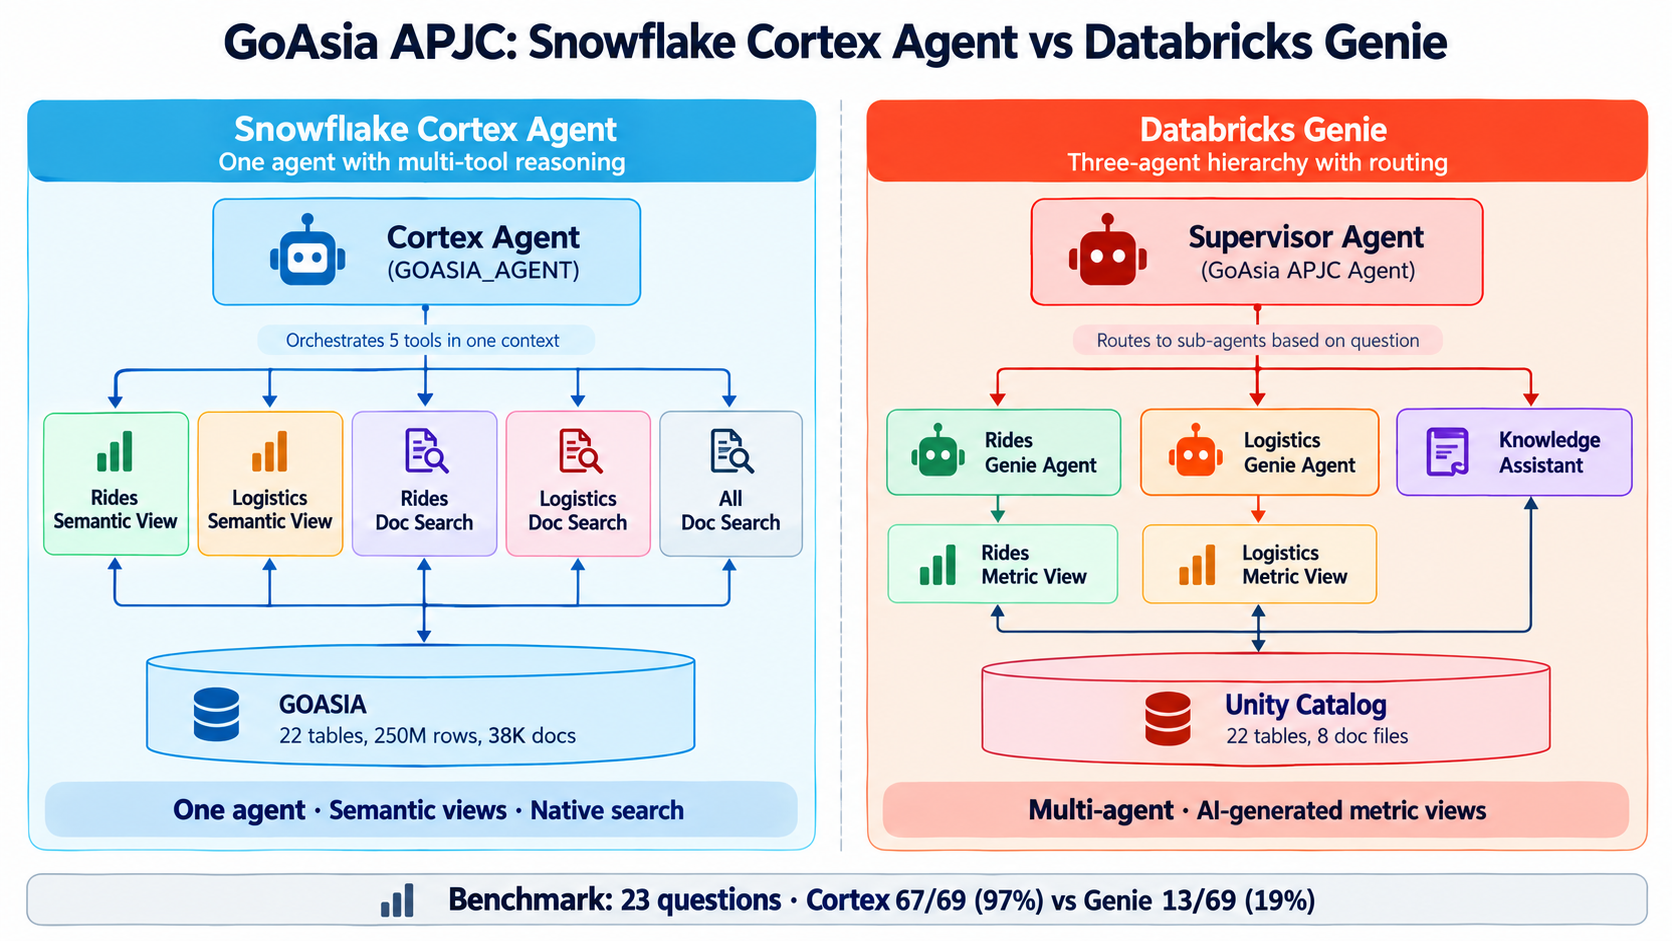
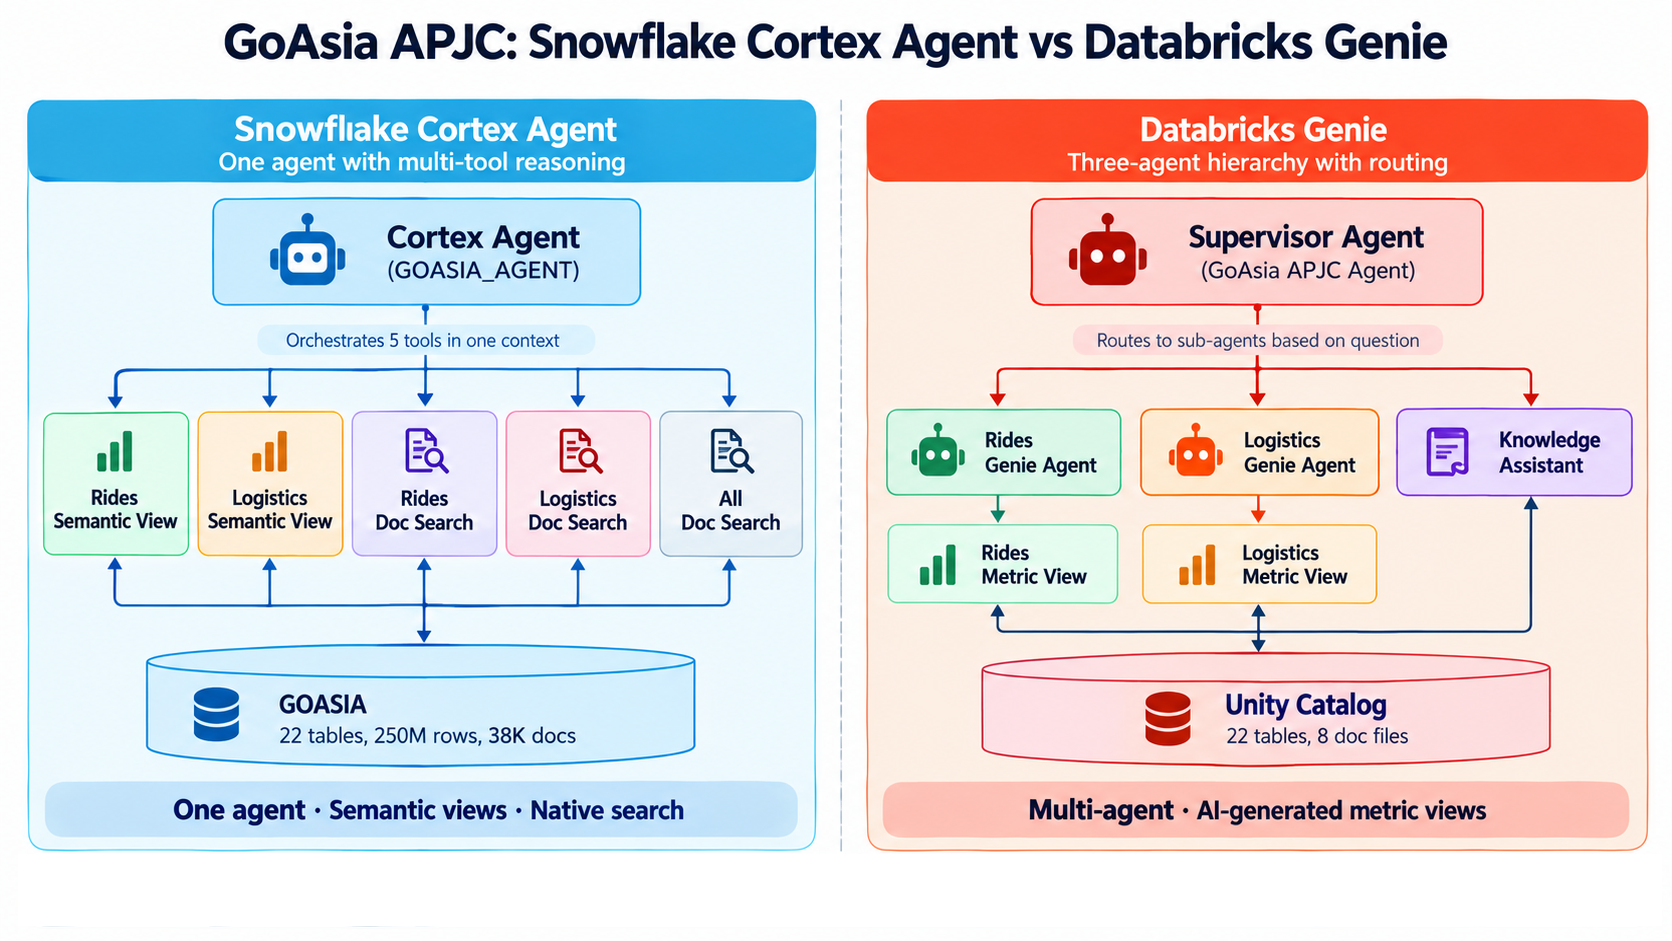
Bold database note and refresh images from latest source
Generated with [Snowflake CoCo](https://docs.snowflake.com/en/user-guide/cortex-code/cortex-code)

Changed region(s): [[0.2177, 0.9245, 0.8708, 0.9862], [0.0622, 0.9554, 0.1866, 0.9862], [0.9019, 0.9554, 0.933, 0.9862]]

diff --git a/techup_participant_guide.md b/techup_participant_guide.md
@@ -118,7 +118,7 @@ USE DATABASE IDENTIFIER($my_db);
 ```
 
 > [!IMPORTANT]
-> Create everything you build (semantic views and the agent) in **your** database. `GOASIA` holds read-only source data. Your database name contains hyphens, so whenever you type it directly, wrap it in double quotes and keep it lowercase, for example `"jdoe-techup-db"`.
+> **Create everything you build (semantic views and the agent) in your database. `GOASIA` holds read-only source data. Your database name contains hyphens, so whenever you type it directly, wrap it in double quotes and keep it lowercase, for example `"jdoe-techup-db"`.**
 
 #### Step 3: Verify access to the shared objects
 
